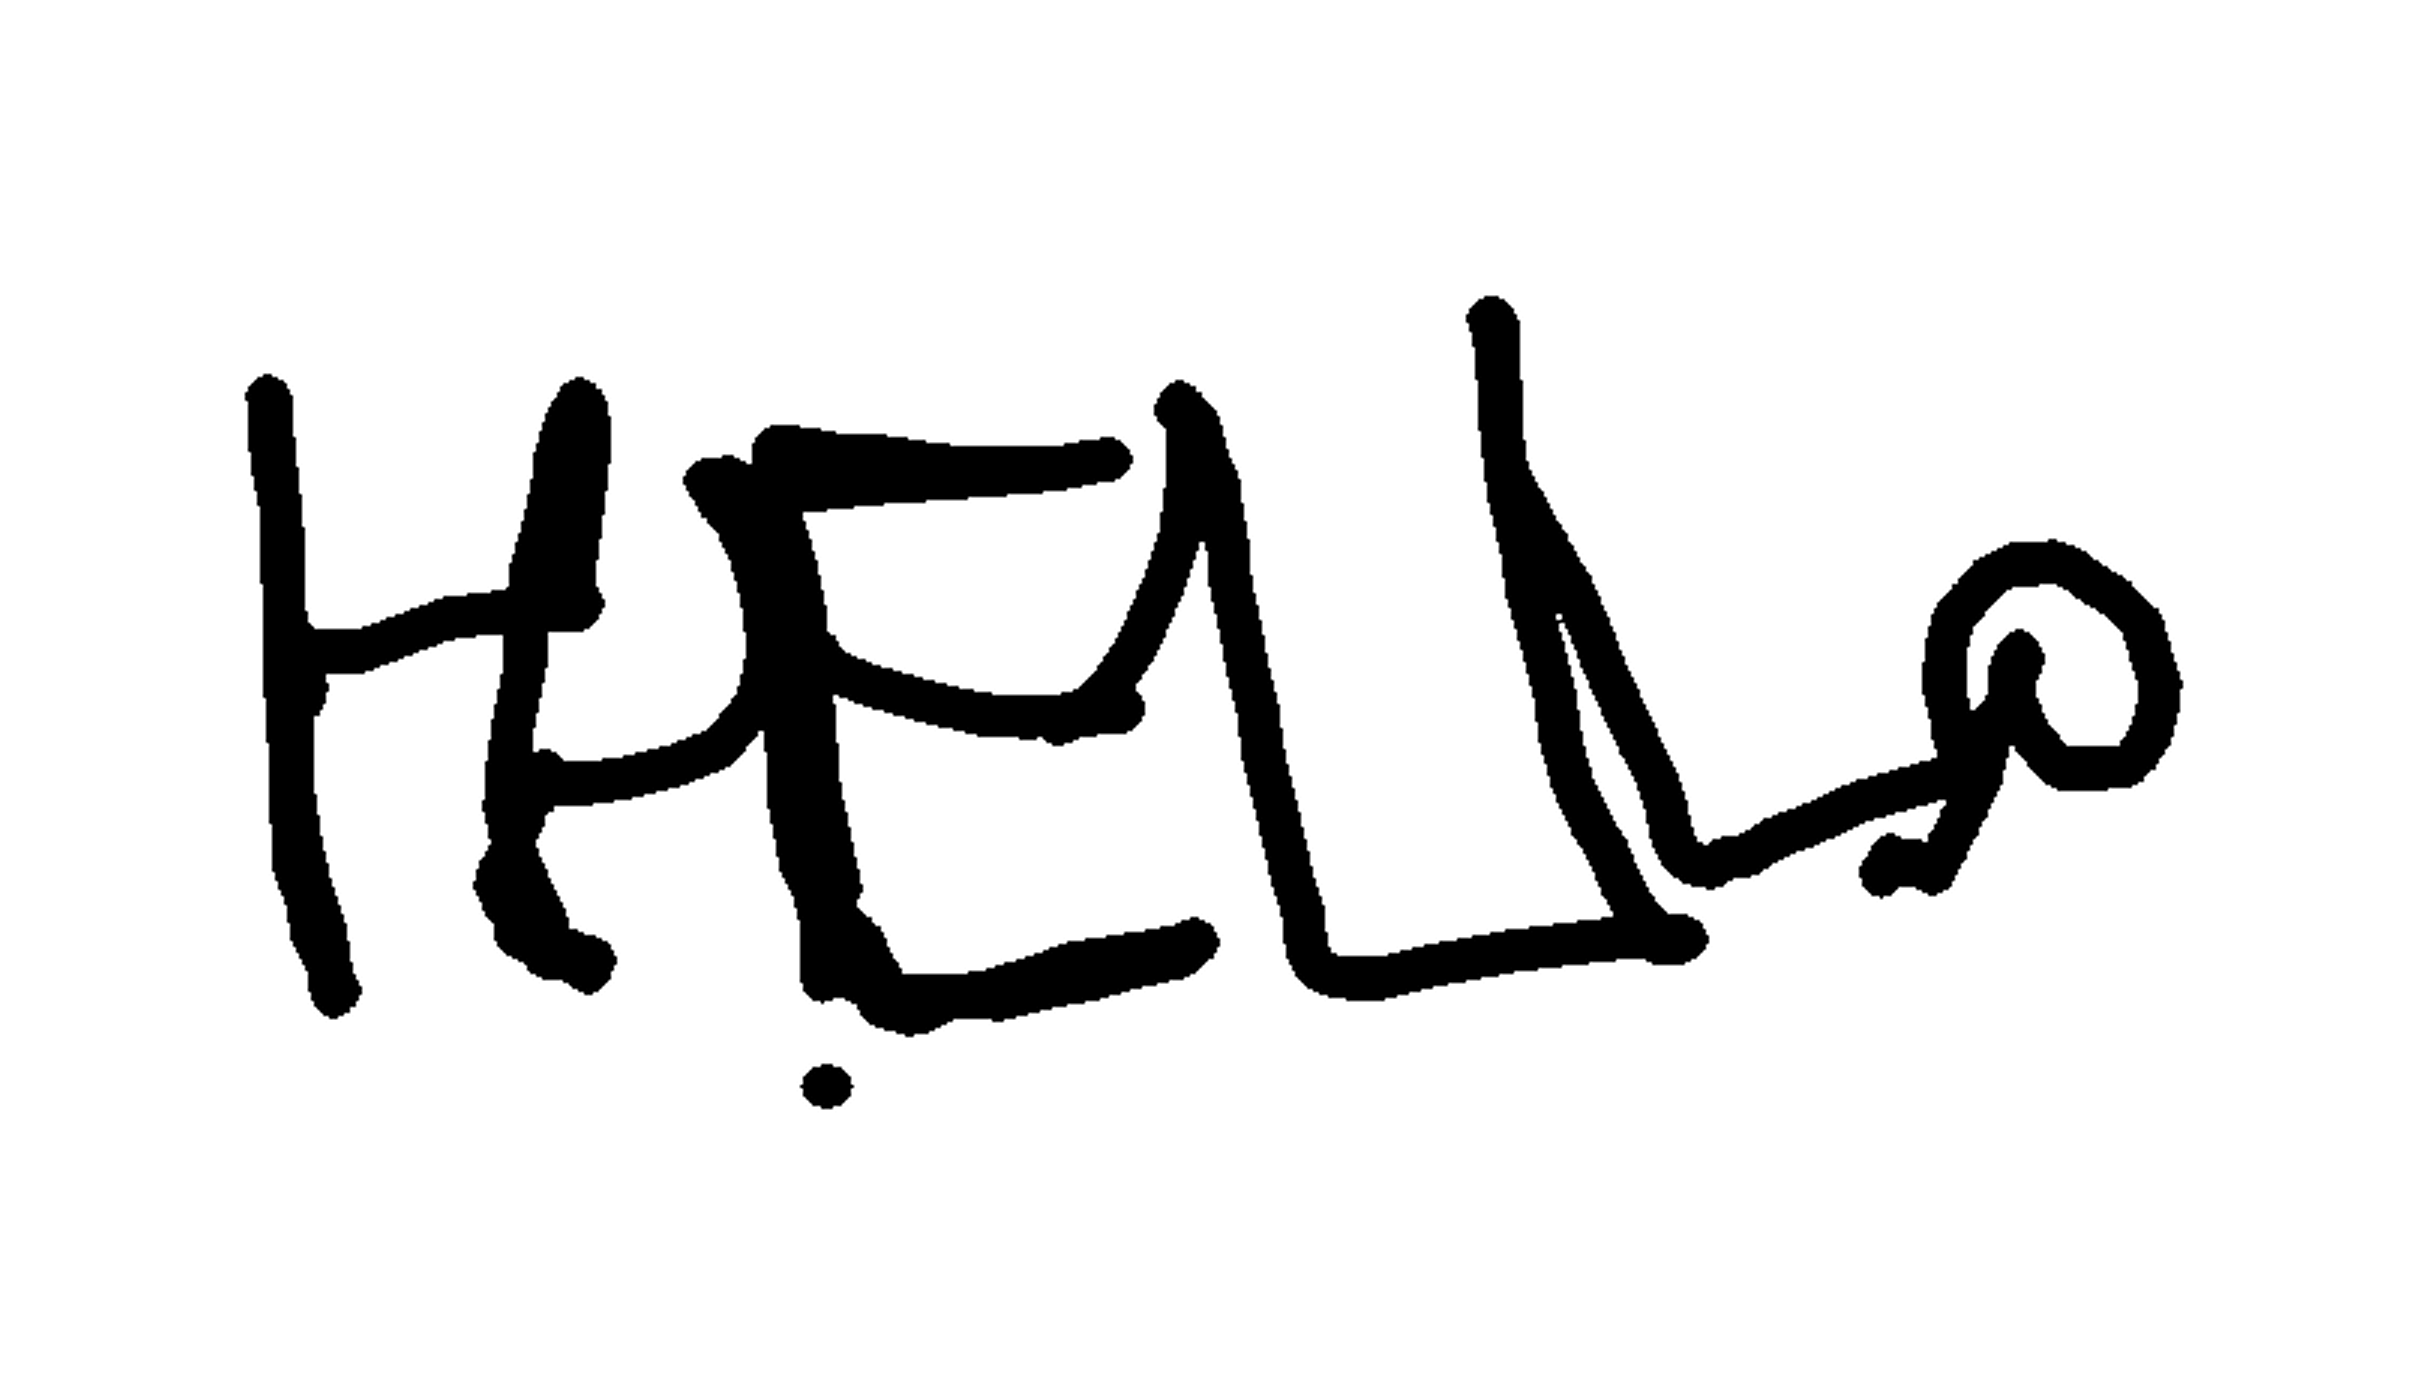
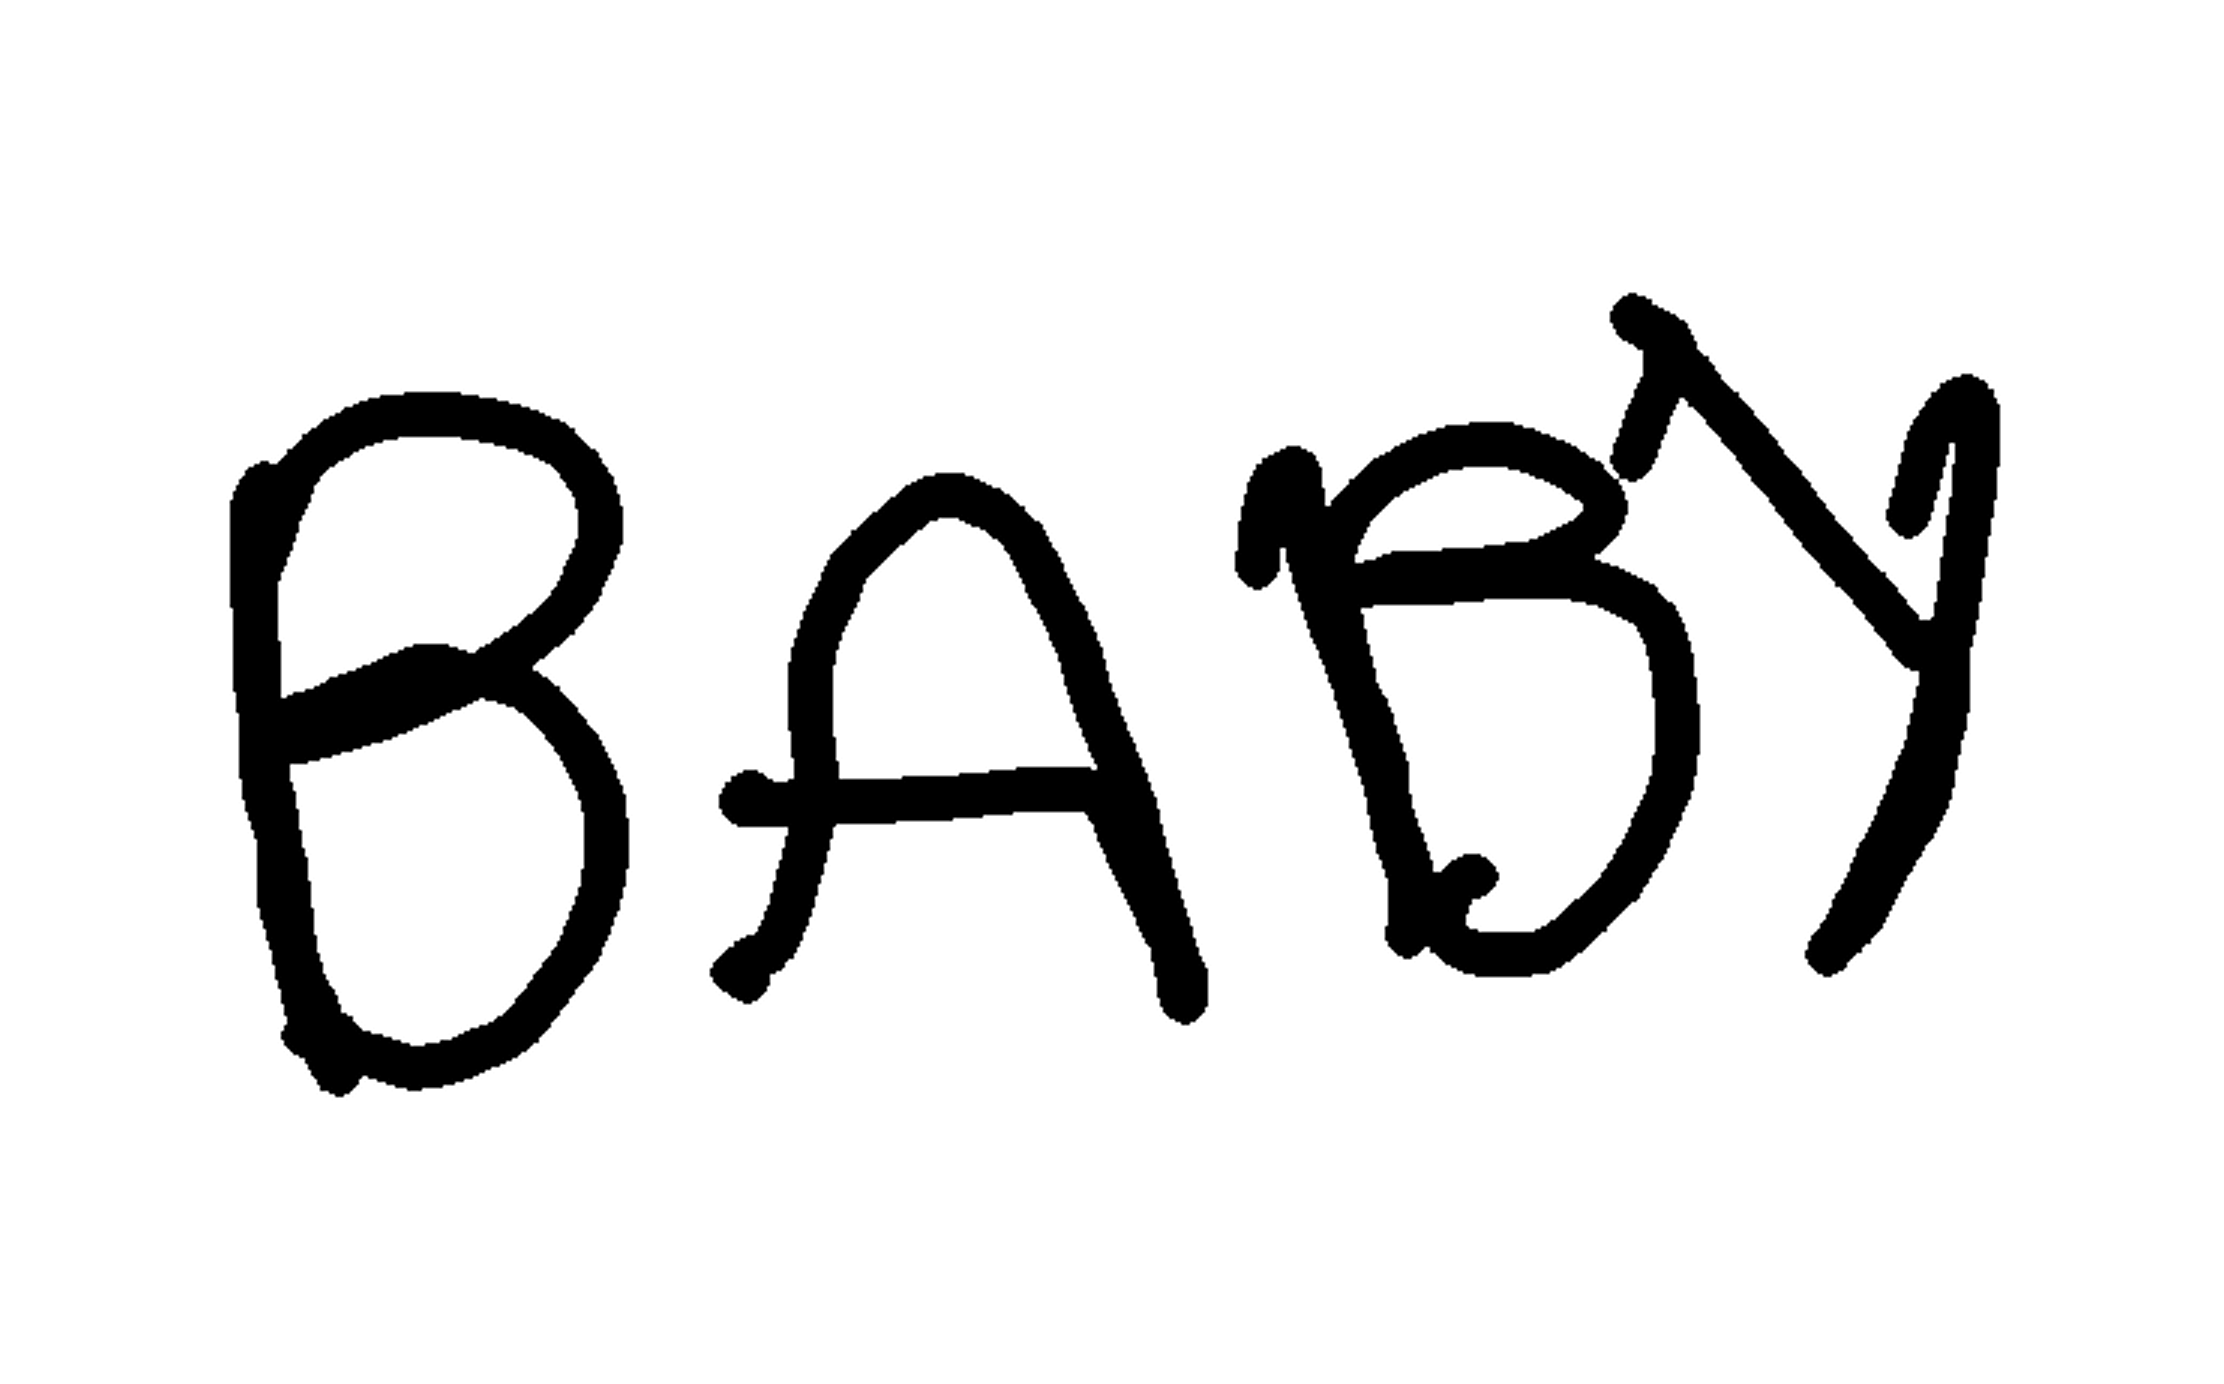
Updated Air Canvas with Saved Drawings Gallery

Changed region(s): [[0.0931, 0.2175, 0.8997, 0.8078], [0.1241, 0.5903, 0.1551, 0.6214]]

diff --git a/app.py b/app.py
@@ -5,12 +5,15 @@ import numpy as np
 import time
 import os
 import pytesseract
+import subprocess
+import sys
 
 pytesseract.pytesseract.tesseract_cmd = (
     r"C:\Program Files\Tesseract-OCR\tesseract.exe"
 )
 
-model_path = "hand_landmarker.task"
+project_folder = os.path.dirname(os.path.abspath(__file__))
+model_path = os.path.join(project_folder, "hand_landmarker.task")
 
 BaseOptions = mp.tasks.BaseOptions
 HandLandmarker = mp.tasks.vision.HandLandmarker
@@ -66,7 +69,7 @@ min_brush_size = 2
 max_brush_size = 40
 eraser_size = 35
 
-save_folder = os.path.abspath("saved_drawings")
+save_folder = os.path.join(project_folder, "saved_drawings")
 os.makedirs(save_folder, exist_ok=True)
 
 last_saved_path = None
@@ -175,6 +178,33 @@ def export_jpg(image):
         print("JPG exported:", filename)
     else:
         status_message = "JPG export failed"
+
+
+def open_gallery():
+    global status_message
+
+    gallery_path = os.path.join(
+        project_folder,
+        "gallery.py"
+    )
+
+    if not os.path.isfile(gallery_path):
+        status_message = "gallery.py not found"
+        print(status_message)
+        return
+
+    try:
+        subprocess.Popen(
+            [sys.executable, gallery_path],
+            cwd=project_folder
+        )
+
+        status_message = "Gallery opened"
+        print(status_message)
+
+    except Exception as error:
+        status_message = "Could not open gallery"
+        print("Gallery error:", error)
 
 
 def prepare_ocr_image(image, is_canvas=False):
@@ -428,25 +458,20 @@ def draw_toolbar(frame):
         ("UNDO", (180, 140, 80)),
         ("REDO", (180, 140, 80)),
         ("OCR", (100, 200, 200)),
-        ("SAVED OCR", (100, 200, 200))
+        ("SAVED OCR", (100, 200, 200)),
+        ("GALLERY", (180, 100, 220))
     ]
 
-    tool_positions = {}
-
     for i, (label, color) in enumerate(tools):
-        x1 = 475 + i * 98
+        x1 = 475 + i * 88
 
         draw_button(
             frame,
             x1, 38,
-            x1 + 88, 75,
+            x1 + 80, 75,
             label,
             color,
             eraser if label == "ERASER" else False
-        )
-
-        tool_positions[label] = (
-            x1, 38, x1 + 88, 75
         )
 
     cv2.putText(
@@ -501,8 +526,6 @@ def draw_toolbar(frame):
         1
     )
 
-    return tool_positions
-
 
 def mouse_callback(event, x, y, flags, param):
     global eraser, brush_size
@@ -525,18 +548,19 @@ def mouse_callback(event, x, y, flags, param):
 
         tool_positions = [
             ("ERASER", 475),
-            ("CLEAR", 573),
-            ("SAVE", 671),
-            ("JPG", 769),
-            ("UNDO", 867),
-            ("REDO", 965),
-            ("OCR", 1063),
-            ("SAVED OCR", 1161)
+            ("CLEAR", 563),
+            ("SAVE", 651),
+            ("JPG", 739),
+            ("UNDO", 827),
+            ("REDO", 915),
+            ("OCR", 1003),
+            ("SAVED OCR", 1091),
+            ("GALLERY", 1179)
         ]
 
         for label, x1 in tool_positions:
 
-            if x1 <= x <= x1 + 88:
+            if x1 <= x <= x1 + 80:
 
                 if label == "ERASER":
                     eraser = True
@@ -589,6 +613,9 @@ def mouse_callback(event, x, y, flags, param):
                         status_message = "Saved OCR error"
                         print(error)
 
+                elif label == "GALLERY":
+                    open_gallery()
+
                 return
 
     if 88 <= y <= 121:
@@ -636,6 +663,7 @@ print("--------------------------------")
 
 try:
     cv2.namedWindow("AI Virtual Air Canvas")
+
     cv2.setMouseCallback(
         "AI Virtual Air Canvas",
         mouse_callback
@@ -699,7 +727,6 @@ try:
                 middle_up = middle_tip.y < middle_pip.y
 
                 if index_up and middle_up:
-
                     reset_stroke()
 
                 elif index_up and not middle_up:
